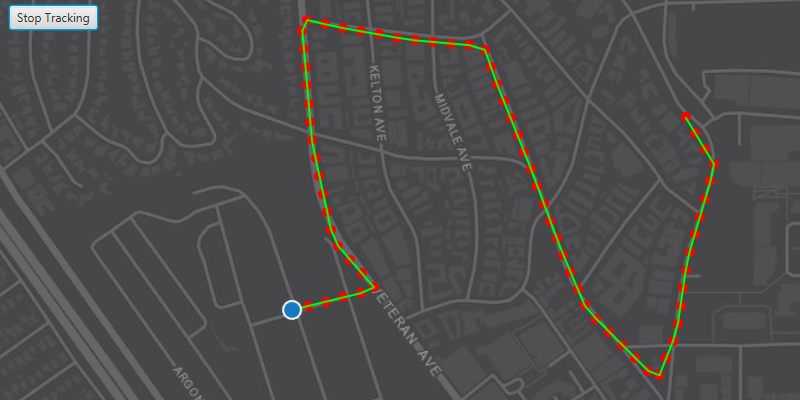
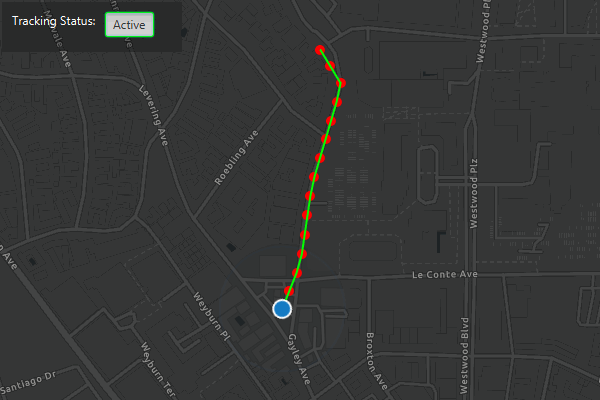
Add highlighted button, gif

diff --git a/map_view/show-location-history/src/main/resources/show_location_history/style.css b/map_view/show-location-history/src/main/resources/show_location_history/style.css
@@ -1,0 +1,27 @@
+.panel-region .label {
+  -fx-text-fill: white;
+}
+
+.label {
+  -fx-text-fill: black;
+}
+
+.slider .axis {
+    -fx-tick-label-fill: white;
+}
+
+.range-slider .axis {
+    -fx-tick-label-fill: white;
+}
+
+.panel-region .check-box {
+   -fx-text-fill: white;
+}
+
+.panel-region .radio-button {
+   -fx-text-fill: white;
+}
+
+.color-picker .color-picker-label {
+   -fx-text-fill: black;
+}

diff --git a/map_view/show-location-history/src/main/java/com/esri/samples/show_location_history/ShowLocationHistorySample.java b/map_view/show-location-history/src/main/java/com/esri/samples/show_location_history/ShowLocationHistorySample.java
@@ -26,7 +26,14 @@ import javafx.geometry.Insets;
 import javafx.geometry.Pos;
 import javafx.scene.Scene;
 import javafx.scene.control.Alert;
+import javafx.scene.control.Label;
+import javafx.scene.control.ToggleButton;
+import javafx.scene.layout.Background;
+import javafx.scene.layout.BackgroundFill;
+import javafx.scene.layout.CornerRadii;
+import javafx.scene.layout.HBox;
 import javafx.scene.layout.StackPane;
+import javafx.scene.paint.Paint;
 import javafx.stage.Stage;
 
 import com.esri.arcgisruntime.geometry.Geometry;
@@ -61,6 +68,7 @@ public class ShowLocationHistorySample extends Application {
   public void start(Stage stage) {
 
     try {
+
       // create stack pane and application scene
       StackPane stackPane = new StackPane();
       Scene scene = new Scene(stackPane);
@@ -71,6 +79,7 @@ public class ShowLocationHistorySample extends Application {
       stage.setHeight(700);
       stage.setScene(scene);
       stage.show();
+      scene.getStylesheets().add(getClass().getResource("/show_location_history/style.css").toExternalForm());
 
       // create a map with a dark gray canvas basemap
       ArcGISMap map = new ArcGISMap(Basemap.createDarkGrayCanvasVector());
@@ -83,8 +92,12 @@ public class ShowLocationHistorySample extends Application {
       mapView.setViewpoint(new Viewpoint(new Point(-13185535.98, 4037766.28,
         SpatialReferences.getWebMercator()), 7000));
 
+      // create a label
+      Label trackingLabel = new Label("Tracking Status: ");
+
       // create a button that toggles the location tracking
       ToggleButton trackingButton = new ToggleButton("Start");
+      trackingButton.maxWidth(Double.MAX_VALUE);
       trackingButton.setDisable(true);
 
       // create a graphics overlay for the points and use a red circle for the symbols
@@ -152,13 +165,13 @@ public class ShowLocationHistorySample extends Application {
         }
         // toggle the location tracking when the button is clicked
         if (trackingButton.isSelected()) {
-          trackingButton.setText("Active");
-          trackingButton.setStyle("-fx-background-color: #00ff00;");
           simulatedLocationDataSource.addLocationChangedListener(locationChangedListener);
+          trackingButton.setText("Active");
+          trackingButton.setStyle("-fx-focus-color: #00ff00;");
         } else {
-          trackingButton.setText("Stopped");
-          trackingButton.setStyle("-fx-background-color: #f16345;");
           simulatedLocationDataSource.removeLocationChangedListener(locationChangedListener);
+          trackingButton.setText("Stopped");
+          trackingButton.setStyle("-fx-focus-color: #f16345;");
         }
       });
 
@@ -176,10 +189,18 @@ public class ShowLocationHistorySample extends Application {
         }
       });
 
-      // add the map view and tracking button to the stack pane
-      stackPane.getChildren().addAll(mapView, trackingButton);
-      StackPane.setAlignment(trackingButton, Pos.TOP_LEFT);
-      StackPane.setMargin(trackingButton, new Insets(10, 0, 0, 10));
+      // create a control panel and add the label and button UI components
+      HBox controlsHBox = new HBox(6);
+      controlsHBox.setBackground(new Background(new BackgroundFill(Paint.valueOf("rgba(0,0,0,0.3)"), CornerRadii.EMPTY, Insets.EMPTY)));
+      controlsHBox.setPadding(new Insets(10.0));
+      controlsHBox.setMaxSize(180, 50);
+      controlsHBox.getStyleClass().add("panel-region");
+      controlsHBox.getChildren().addAll(trackingLabel, trackingButton);
+
+      // add the map view and control panel to the stack pane
+      stackPane.getChildren().addAll(mapView, controlsHBox);
+      StackPane.setAlignment(controlsHBox, Pos.TOP_LEFT);
+      StackPane.setMargin(controlsHBox, new Insets(10, 0, 0, 10));
 
     } catch (Exception e) {
       // on any error, display the stack trace.

diff --git a/map_view/show-location-history/README.md b/map_view/show-location-history/README.md
@@ -2,7 +2,7 @@
 
 Display your location history on the map.
 
-![Image of show location history](ShowLocationHistory.png)
+![Image of show location history](ShowLocationHistory.gif)
 
 ## Use case
 
